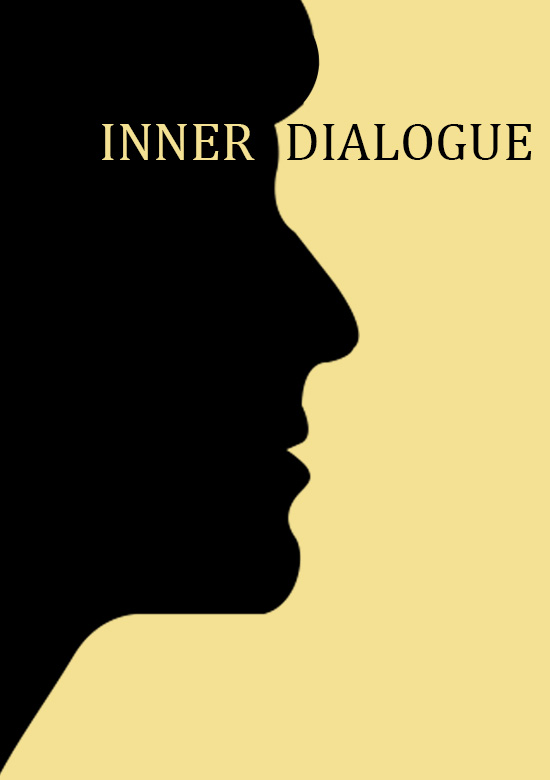
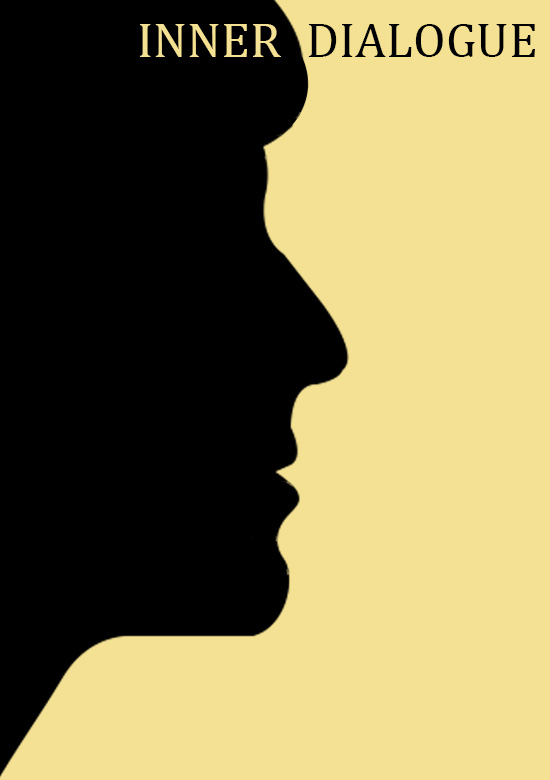
Move up the content

diff --git a/assets/css/main.css b/assets/css/main.css
@@ -297,7 +297,7 @@
 		display: inline-block;
 		float: left;
 		margin-left: 425px;
-		margin-top: 190px;
+		margin-top: 100px;
 		width: 50%;
 		/*height: 70%;*/
 	}
